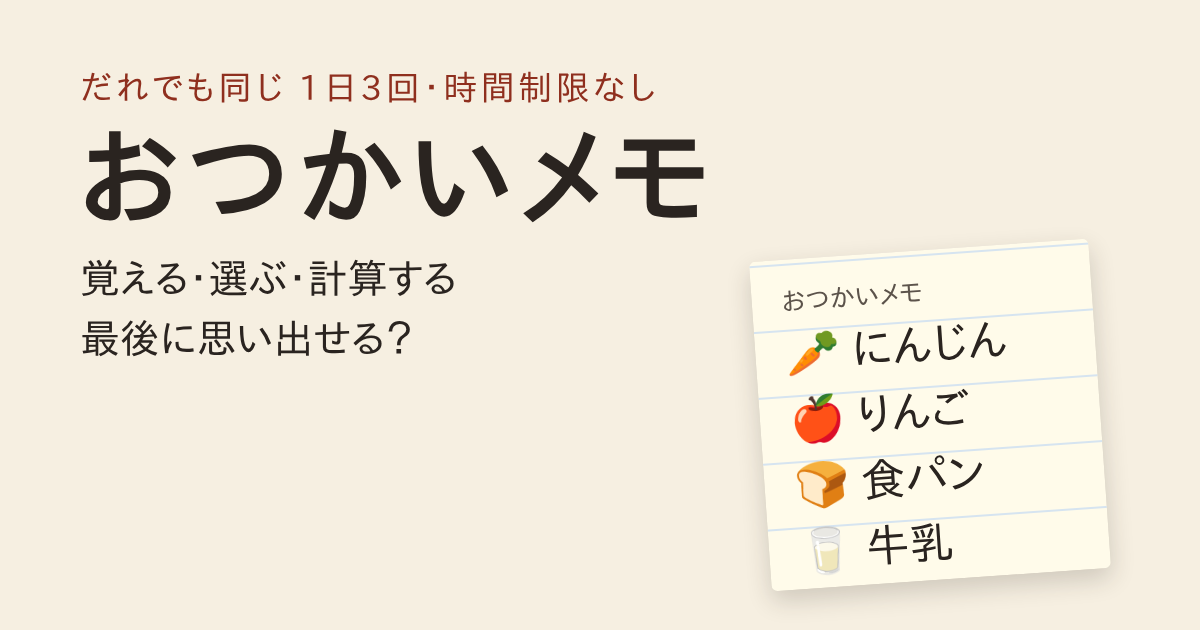
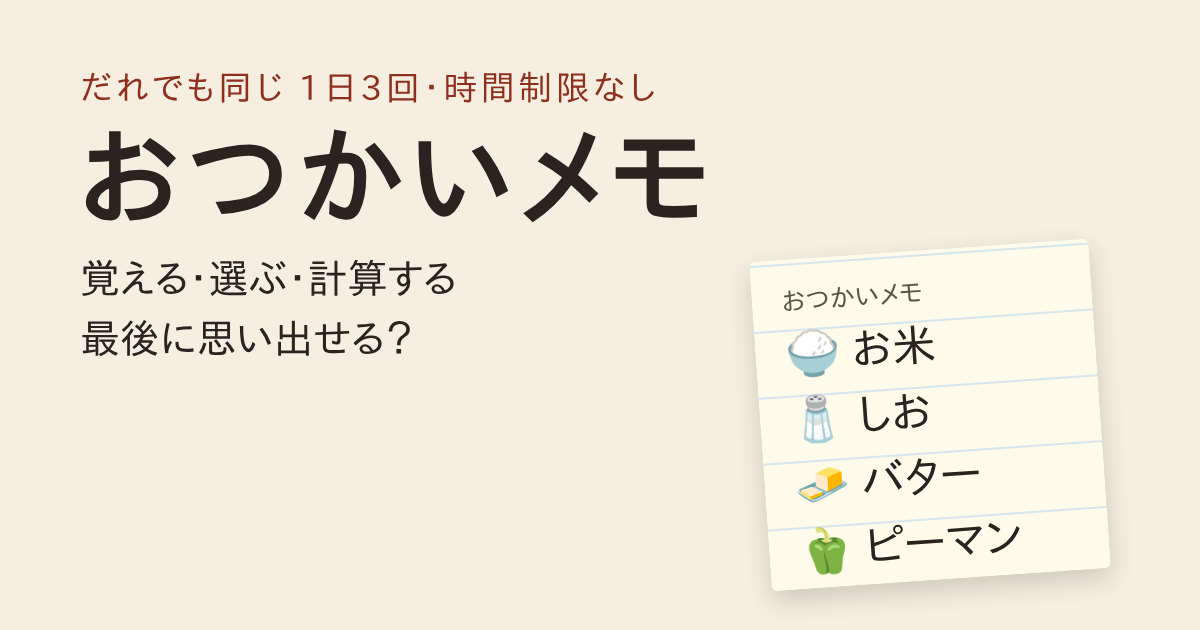
レビュー対応：別タブの上書きを防ぐ・読み上げ・SNS の絵・保存のたまり、共通部品を最新に
- 同じ回で別のタブが選んだ品を、古い画面から消さない（sig・live で比べ、違えば作り直す）
- 思い出しを続きから開いたとき aria-pressed を付ける
- メモが3つ以上の売り場にまたがらないときは、乱数を引かずに入れかえる（毎日の問題は変わらない）
- sw.js：保存の名前から ? 以降を外す（CACHE v3）
- og.png：ゲームの品を入れない見本に替える（QA が見る）
- 見やすさの共通部品 v3・引き継ぎコード v3 を写し直す（data-keys から a11y-v1 を外す）

Claude-Session: https://claude.ai/code/session_01SbNQtYnDRh4hCJ9SXNY1mS

Changed region(s): [[0.6475, 0.5127, 0.8633, 0.9349]]

diff --git a/index.html b/index.html
@@ -182,8 +182,8 @@ footer a{color:var(--ink2);min-height:44px;display:inline-flex;align-items:cente
 /* all:unset のボタンでも、キーボードで選んだときの枠が消えないよう、いちばん最後に強く書く */
 :is(.icon,button,a):focus-visible{outline:3px solid var(--blue)!important;outline-offset:2px}
 </style>
-<script src="transfer.js" data-game="otsukai-memo" data-keys="otsukai-v1,otsukai-fs,a11y-v1"></script>
-<!-- a11y:begin 見やすさの設定 v2（shared-workflows template/a11y/a11y.html の写し。ここでは直さず、ひな形を直して全部のゲームへ写す。drift-check と qa/a11y.mjs が同じ中身か見る） -->
+<script src="transfer.js" data-game="otsukai-memo" data-keys="otsukai-v1,otsukai-fs"></script>
+<!-- a11y:begin 見やすさの設定 v3（shared-workflows template/a11y/a11y.html の写し。ここでは直さず、ひな形を直して全部のゲームへ写す。drift-check と qa/a11y.mjs が同じ中身か見る） -->
 <style id="a11y-css">
 /* だれでも：キーボードで選んだ所に太い枠（WCAG 2.4.7・2.4.13） */
 :is(button,a,input,select,textarea,summary,[tabindex]):focus-visible{outline:3px solid #1a5fd0!important;outline-offset:2px!important;box-shadow:0 0 0 5px #fff!important}
@@ -210,6 +210,8 @@ html:not(.a11y-ruby) ruby.a11y-rb>rt{display:none}
 .a11y-dlg button,.a11y-btn,.a11y-saybtn{min-height:44px;min-width:44px;border-radius:10px;border:2px solid #1d2320;background:#fff;color:#1d2320;font:700 15px/1.2 "BIZ UDPGothic","Hiragino Sans","Yu Gothic UI",Meiryo,sans-serif;padding:0 14px;cursor:pointer;letter-spacing:0}
 .a11y-dlg button.a11y-ok{background:#1d2320;color:#fff}
 .a11y-btn.a11y-float{position:fixed;left:max(8px,env(safe-area-inset-left,0px));bottom:max(8px,env(safe-area-inset-bottom,0px));z-index:2147483000}
+/* 読み上げボタンが、いちばん下のボタン・リンクにかぶらないよう下をあける */
+html.a11y-say body{padding-bottom:calc(64px + env(safe-area-inset-bottom,0px))!important}
 .a11y-saybtn{position:fixed;right:max(8px,env(safe-area-inset-right,0px));bottom:max(8px,env(safe-area-inset-bottom,0px));z-index:2147483000;box-shadow:0 2px 8px #0003}
 .a11y-saybtn[hidden],.a11y-dlg [hidden]{display:none!important}
 .a11y-note{font-size:13px!important}
@@ -448,7 +450,8 @@ const footer = () => `<footer><a href="#" id="f-how">遊び方</a><a href="#" id
 function bindFooter() { const h = $("f-how"); if (h) h.onclick = (e) => { e.preventDefault(); openHow(); }; const a = $("f-about"); if (a) a.onclick = (e) => { e.preventDefault(); about(); }; }
 function openHow() { $("fb2").href = FEEDBACK; const d = $("howto"); if (d.showModal) d.showModal(); else d.setAttribute("open", ""); }
 $("howto-ok").onclick = () => { const d = $("howto"); d.close ? d.close() : d.removeAttribute("open"); save((s) => { s.tut = true; }); };
-const itemBtn = (id, cls = "") => { const it = BY[id]; return `<button class="item g${it.g} ${cls}" data-id="${id}" aria-label="${it.n}">${`<span class="e" aria-hidden="true">${it.e}</span><span class="n">${it.n}</span>`}</button>`; };
+// pressed を渡すと、選んだ・選んでいないを読み上げに伝える（思い出しの棚。続きから開いたときも）
+const itemBtn = (id, cls = "", pressed) => { const it = BY[id]; return `<button class="item g${it.g} ${cls}" data-id="${id}" aria-label="${it.n}"${pressed === undefined ? "" : ` aria-pressed="${pressed}"`}>${`<span class="e" aria-hidden="true">${it.e}</span><span class="n">${it.n}</span>`}</button>`; };
 const toTop = () => window.scrollTo(0, 0);
 
 function home() {
@@ -520,8 +523,16 @@ function startRun(mode, opt) {
 // cur：{ i, stage: "memo"|"shelf"|"pay"|"recall", got:[かごに入れた品], ng:[まちがえて押した品], miss, hints, calc, sel:[思い出しで選んだ品] }
 let cur = null, typed = "";
 const same = (r) => r && cur && r.id === cur.id && r.res.length === cur.i; // 保存した進み具合が、この画面と同じ回か
-// 途中の様子を保存する（ヒント・まちがいの数は、別のタブで数えた分より減らさない）
-function keep() { save((s) => { const r = s.runs[MODE]; if (!same(r)) return; const w = r.cur && r.cur.i === cur.i ? r.cur : null; if (w) for (const q of ["miss", "hints", "calc"]) cur[q] = Math.max(cur[q] || 0, w[q] || 0); r.cur = { i: cur.i, stage: cur.stage, got: cur.got.slice(), ng: cur.ng.slice(), miss: cur.miss, hints: cur.hints, calc: cur.calc, sel: cur.sel.slice(), hl: cur.hl || null }; }); }
+// 途中の様子の控え。この画面が最後に読んだ・書いた中身と、保存の中身が同じか比べる（同じ回で別のタブが品を選んだのを、古い画面で消さない）
+const sig = (c) => (c ? JSON.stringify([c.i, c.stage, c.got, c.ng, c.sel, c.miss, c.hints, c.calc]) : "");
+const live = () => { const r = load().runs[MODE]; return same(r) && sig(r.cur) === cur.seen; };
+// 途中の様子を保存する。別のタブが先に書いていたら書かずに、保存の中身で画面を作り直す（false を返す）
+function keep() {
+  let ok = false;
+  save((s) => { const r = s.runs[MODE]; if (!same(r) || sig(r.cur) !== cur.seen) return; r.cur = { i: cur.i, stage: cur.stage, got: cur.got.slice(), ng: cur.ng.slice(), miss: cur.miss, hints: cur.hints, calc: cur.calc, sel: cur.sel.slice(), hl: cur.hl || null }; cur.seen = sig(r.cur); ok = true; });
+  if (!ok) { toast("別の画面で先に進んでいます"); play(); }
+  return ok;
+}
 function play() {
   const s = load(), run = s.runs[MODE];
   if (!run) return home();
@@ -529,7 +540,7 @@ function play() {
   if (run.mode === "a" && s.days[run.date]) { save((s2) => { delete s2.runs[MODE]; }); toast("この日は別の画面で遊び終えています"); return home(); }
   const i = run.res.length, trip = run.list[i];
   const sv = run.cur && run.cur.i === i ? run.cur : null;
-  cur = { id: run.id, i, stage: sv ? sv.stage : trip.k === "recall" ? "recall" : "memo", got: sv ? sv.got.filter((x) => trip.items.includes(x)) : [], ng: sv ? (sv.ng || []).filter((x) => trip.shelf.includes(x)) : [], miss: sv ? sv.miss || 0 : 0, hints: sv ? sv.hints || 0 : 0, calc: sv ? sv.calc || 0 : 0, sel: sv ? (sv.sel || []).filter((x) => trip.shelf.includes(x)) : [], hl: sv ? sv.hl || null : null };
+  cur = { id: run.id, i, stage: sv ? sv.stage : trip.k === "recall" ? "recall" : "memo", got: sv ? sv.got.filter((x) => trip.items.includes(x)) : [], ng: sv ? (sv.ng || []).filter((x) => trip.shelf.includes(x)) : [], miss: sv ? sv.miss || 0 : 0, hints: sv ? sv.hints || 0 : 0, calc: sv ? sv.calc || 0 : 0, sel: sv ? (sv.sel || []).filter((x) => trip.shelf.includes(x)) : [], hl: sv ? sv.hl || null : null, seen: sig(run.cur) };
   typed = "";
   if (cur.stage === "done") return endTrip(trip); // お会計を終えて次へ進む前に閉じた回
   if (cur.stage === "memo") memoView(run, trip);
@@ -556,7 +567,7 @@ function memoView(run, trip) {
     <button class="main ok" id="ready">覚えた！お店へ行く</button>
     <p class="note">時間制限はありません。お店に入るとメモは見られません。</p>`;
   $("back").onclick = home;
-  $("ready").onclick = () => { if (!same(load().runs[MODE])) return play(); cur.stage = "shelf"; keep(); shelfView(load().runs[MODE], trip); };
+  $("ready").onclick = () => { if (!live()) return play(); cur.stage = "shelf"; if (keep()) shelfView(load().runs[MODE], trip); };
   toTop();
 }
 function shelfView(run, trip) {
@@ -580,22 +591,23 @@ function hintHtml(trip) {
   return `<div class="hint">のこりは <b>${gs.join("・")}</b> の売り場にあります${cur.hints >= 2 ? "。光っている品も、メモにありました" : ""}</div>`;
 }
 function shelfHint(trip) {
-  if (cur.hints >= 2 || !same(load().runs[MODE])) return;
+  if (cur.hints >= 2) return;
+  if (!live()) { toast("別の画面で先に進んでいます"); return play(); }
   cur.hints++;
   if (cur.hints === 2) { const rest = trip.items.filter((x) => !cur.got.includes(x)); cur.hl = rest[0] || null; }
-  keep(); shelfView(load().runs[MODE], trip); buzz();
+  if (keep()) { shelfView(load().runs[MODE], trip); buzz(); }
 }
 function pickItem(b, trip) {
   const id = b.dataset.id;
   if (cur.got.includes(id) || cur.ng.includes(id)) return;
-  if (!same(load().runs[MODE])) { toast("別の画面で先に進んでいます"); return play(); }
+  if (!live()) { toast("別の画面で先に進んでいます"); return play(); }
   const m = $("msg");
   if (trip.items.includes(id)) {
     cur.got.push(id); if (cur.hl === id) cur.hl = null; b.className = `item g${BY[id].g} got`; buzz();
     m.className = "msg ok"; m.textContent = `${BY[id].n}、ありました！`;
     $("basket").innerHTML = `<span class="lbl">かご</span>${cur.got.map((x) => `<span aria-label="${BY[x].n}">${BY[x].e}</span>`).join("")}<span class="lbl" style="margin-left:auto">のこり ${trip.items.length - cur.got.length}品</span>`;
     if (cur.got.length >= trip.items.length) {
-      cur.stage = trip.pay === "none" ? "done" : "pay"; keep();
+      cur.stage = trip.pay === "none" ? "done" : "pay"; if (!keep()) return;
       document.querySelectorAll("#shelf .item").forEach((x) => (x.disabled = true)); $("hint").disabled = true;
       if (cur.stage === "pay") { setTimeout(() => { if (cur && cur.stage === "pay" && $("shelf")) payView(load().runs[MODE], trip); }, 700); }
       else endTrip(trip);
@@ -628,15 +640,15 @@ function padKey(d, trip) {
 }
 function payCheck(trip) {
   if (!typed) return;
-  if (!same(load().runs[MODE])) { toast("別の画面で先に進んでいます"); return play(); }
+  if (!live()) { toast("別の画面で先に進んでいます"); return play(); }
   const want = trip.pay === "change" ? trip.paid - trip.total : trip.total, got = +typed, m = $("msg");
-  if (got === want) { buzz([10, 40, 10]); cur.stage = "done"; keep(); return endTrip(trip); }
+  if (got === want) { buzz([10, 40, 10]); cur.stage = "done"; return keep() && endTrip(trip); }
   cur.calc++; buzz(40); typed = ""; $("disp").innerHTML = `0<span class="u">円</span>`;
   if (cur.calc >= 2) {
     // 2回まちがえたら、計算のしかたを見せて先へ（いつまでも止めない）
     const how = trip.items.map((id) => BY[id].p).join("＋") + `＝${yen(trip.total)}` + (trip.pay === "change" ? `、${yen(trip.paid)}−${yen(trip.total)}＝${yen(want)}` : "");
     m.className = "msg ng"; m.innerHTML = `答えは <b>${yen(want)}</b> でした。<br><small>${esc(how)}</small>`;
-    cur.stage = "done"; keep();
+    cur.stage = "done"; if (!keep()) return;
     $("pad").innerHTML = ""; $("pad").insertAdjacentHTML("afterend", `<button class="main" id="go-next">次へ</button>`);
     $("go-next").onclick = () => endTrip(trip);
   } else { m.className = "msg ng"; m.textContent = got > want ? "少し多いようです。もう一度計算してみましょう" : "少し足りないようです。もう一度計算してみましょう"; keep(); }
@@ -645,7 +657,7 @@ function payCheck(trip) {
 function endTrip(trip) {
   let r = null;
   const s = save((s) => {
-    r = s.runs[MODE]; if (!same(r)) { r = null; return; }
+    r = s.runs[MODE]; if (!same(r) || sig(r.cur) !== cur.seen) { r = null; return; }
     r.res.push({ k: "buy", m: cur.miss, h: cur.hints, c: cur.calc }); r.cur = null;
     for (const id of trip.items) s.dex[id] = (s.dex[id] || 0) + 1;
     s.trips = (s.trips || 0) + 1; if (trip.pay !== "none" && cur.calc === 0) s.calc = (s.calc || 0) + 1;
@@ -678,10 +690,11 @@ function recallView(run, trip) {
   app.innerHTML = `${headOf(run, "最後の思い出し")}
     <p class="big" style="font-size:1.15rem">1回目のおつかいで買った品は？</p>
     <p class="note">${trip.items.length}品あります。全部選んで「これで決める」を押してください。押し直すと外せます。</p>
-    <div class="shelf c${cols}" id="shelf">${trip.shelf.map((id) => itemBtn(id, cur.sel.includes(id) ? "sel" : "")).join("")}</div>
+    <div class="shelf c${cols}" id="shelf">${trip.shelf.map((id) => itemBtn(id, cur.sel.includes(id) ? "sel" : "", cur.sel.includes(id))).join("")}</div>
     <button class="main ok" id="decide"${cur.sel.length ? "" : " disabled"}>これで決める（${cur.sel.length}/${trip.items.length}）</button>`;
   $("back").onclick = home;
   document.querySelectorAll("#shelf .item").forEach((b) => (b.onclick = () => {
+    if (!live()) { toast("別の画面で先に進んでいます"); return play(); }
     const id = b.dataset.id, j = cur.sel.indexOf(id);
     if (j >= 0) cur.sel.splice(j, 1); else if (cur.sel.length < trip.items.length) cur.sel.push(id); else return toast(`選べるのは${trip.items.length}品までです`);
     b.classList.toggle("sel", cur.sel.includes(id)); b.setAttribute("aria-pressed", cur.sel.includes(id)); buzz(6);
@@ -691,9 +704,11 @@ function recallView(run, trip) {
   toTop();
 }
 function recallDone(trip) {
-  if (!same(load().runs[MODE])) { toast("別の画面で先に進んでいます"); return play(); }
+  if (!live()) { toast("別の画面で先に進んでいます"); return play(); }
   const ok = cur.sel.filter((x) => trip.items.includes(x)).length, ng = cur.sel.length - ok;
-  save((s) => { const r = s.runs[MODE]; if (!same(r)) return; r.res.push({ k: "recall", ok, of: trip.items.length, ng }); r.cur = null; });
+  let saved = false;
+  save((s) => { const r = s.runs[MODE]; if (!same(r) || sig(r.cur) !== cur.seen) return; saved = true; r.res.push({ k: "recall", ok, of: trip.items.length, ng }); r.cur = null; });
+  if (!saved) { toast("別の画面で先に進んでいます"); return play(); }
   document.querySelectorAll("#shelf .item").forEach((b) => { const id = b.dataset.id, on = cur.sel.includes(id), want = trip.items.includes(id); b.disabled = true; b.classList.remove("sel"); if (on && want) b.classList.add("got"); else if (on) b.classList.add("ng"); else if (want) b.classList.add("miss"); });
   $("decide").outerHTML = `<div class="verdict" role="status"><p class="big">${ok === trip.items.length && !ng ? "全部思い出せました！" : `${trip.items.length}品のうち ${ok}品 思い出せました`}</p>
     <p class="note">${ok < trip.items.length ? "点線の品が、思い出せなかった品です。" : "あとから思い出すのは、覚えた直後より難しいものです。"}</p>

diff --git a/transfer.js b/transfer.js
@@ -1,21 +1,23 @@
 // 引き継ぎコード（transfer.js）：このゲームの記録を「コード」と「QR」にして、別の端末へ移す。サーバーは使わない。
-// 引き継ぎの版: 1
+// 引き継ぎの版: 3
 // 正：satou-aaaaa/shared-workflows の template/transfer.js（各ゲームはこれをそのまま写す。直すときはひな形を直して配り、版を上げる）
 // 使い方（index.html の <head> の中、ゲームの script より前に、defer を付けずに置く）:
 //   <script src="transfer.js" data-game="kippu-10" data-keys="kippu-v1"></script>
 //   data-keys はカンマ区切り。最後が * のものは「その文字で始まるキー全部」（例 xdoko-*）。
+//   書くのはこのゲームの記録のキーだけ（a11y-v1 のような全部のゲームで分け合う設定は入れない。取り込むと別のゲームの設定まで変わる）。
 //   押すと開く所に data-hk を付ける（<a href="#" data-hk>引き継ぎ</a> など）。JS からは HK.open()。
 // しくみ:
 //   - 書き出し：記録（localStorage のうち data-keys に合うもの）を JSON → deflate-raw で縮める → base64url。
 //     形は HK1.<中身>.<CRC32>（縮められないブラウザは HK0）。QR は「このページの URL#hk=コード」。
 //     URL の # より後ろはサーバーへ送られない（MDN「URL: hash」）ので、記録は外へ出ない。
-//   - 取り込み：形・CRC・ゲームの名前・キーの名前・大きさを確かめてから、確認の画面を出す。
+//   - 取り込み：形・CRC・ゲームの名前・キーの名前・大きさ・HTML に使う文字（< > " ' `）が無いかを確かめてから、確認の画面を出す。
+//     ゲームは記録を innerHTML に入れることが多いので、作ったコードで画面にスクリプトを入れられないようにする（版2、CodeRabbit の指摘）。
 //     入れ替える前の記録は控え（hk-backup:<ゲーム>）に残し、「取り込む前に戻す」で戻せる（戻すのも入れ替えなので、もう一度押せばまた戻る）。
 //     ゲームが記録を読む前に入れ替えたいので、sessionStorage に預けてページを読み直し、この script の最初で書き込む。
 //   - 外へ通信しない（fetch・XMLHttpRequest・外のスクリプトを使わない）。QR は下の qrcode-generator（MIT）をこのファイルの中で作る。
 (function () {
   "use strict";
-  var VERSION = 1;
+  var VERSION = 3;
   var me = document.currentScript;
   var cfg = window.HK_CONFIG || {};
   var GAME = cfg.game || (me && me.dataset.game) || "";
@@ -25,8 +27,10 @@
   var DONE = "hk-done:" + GAME;
   var MAX_JSON = 4 * 1024 * 1024; // localStorage はおおよそ 5MB まで
   var QR_MAX = 2300; // QR（誤り訂正 L・40型）に入る URL の長さのめやす
-  if (!GAME || !KEYS.length || KEYS.some(function (k) { return k === "*" || /^hk-/.test(k); })) {
-    console.error("transfer.js: data-game と data-keys を書く（* だけ・hk- で始まるキーは使えない）");
+  // 全部のゲームで分け合うキー（見やすさの設定）。入れると、取り込んだときにほかのゲームの設定まで変わる
+  var SHARED = ["a11y-v1"];
+  if (!GAME || !KEYS.length || KEYS.some(function (k) { return k === "*" || /^hk-/.test(k) || SHARED.indexOf(k) >= 0 || (k.slice(-1) === "*" && "a11y-v1".indexOf(k.slice(0, -1)) === 0); })) {
+    console.error("transfer.js: data-game と data-keys を書く（* だけ・hk- で始まるキー・分け合う a11y-v1 は使えない）");
     return;
   }
 
@@ -113,10 +117,46 @@
     old: "このブラウザでは読めないコードです。ブラウザを新しくするか、書き出した端末でもう一度作ってください。",
     game: "別のゲームのコードです。",
     keys: "このゲームの記録ではない中身が入っています。",
+    bad: "記録に使わない文字が入っています。書き出した端末でもう一度作ってください。",
     big: "記録が大きすぎます。",
     newer: "新しい版の引き継ぎコードです。ページを読み直して（アプリを開き直して）から試してください。",
   };
+  // 記録の中の文字に、HTML の印になる文字が無いか（JSON ならキーと文字の値を全部見る）
+  var HTMLCH = /[<>"'`]/;
+  function unsafe(v) {
+    var o;
+    try { o = JSON.parse(v); } catch (e) { return HTMLCH.test(v); }
+    var stack = [o];
+    while (stack.length) {
+      var x = stack.pop();
+      if (typeof x === "string") { if (HTMLCH.test(x)) return true; }
+      else if (x && typeof x === "object") {
+        for (var k in x) { if (HTMLCH.test(k)) return true; stack.push(x[k]); }
+      }
+    }
+    return false;
+  }
   function fail(kind) { var e = new Error(ERR[kind]); e.kind = kind; return e; }
+  // 縮めたコードを、読みながら大きさを数えて広げる。MAX_JSON を超えたらそこでやめる
+  // （小さなコードが何百MBにも膨らむと、開いただけでタブが固まるため。版3、CodeRabbit の指摘）
+  function inflate(bytes) {
+    var reader = new Blob([bytes]).stream().pipeThrough(new DecompressionStream("deflate-raw")).getReader();
+    var parts = [], total = 0;
+    function next() {
+      return reader.read().then(function (r) {
+        if (r.done) {
+          var out = new Uint8Array(total), at = 0;
+          parts.forEach(function (p) { out.set(p, at); at += p.length; });
+          return out;
+        }
+        total += r.value.length;
+        if (total > MAX_JSON) { try { reader.cancel(); } catch (e) { /* なし */ } throw fail("big"); }
+        parts.push(r.value);
+        return next();
+      });
+    }
+    return next();
+  }
   function decode(text) {
     return Promise.resolve().then(function () {
       var s = clean(text);
@@ -127,7 +167,7 @@
       try { bytes = unb64(m[2]); } catch (e) { throw fail("form"); }
       if (crc32(bytes) !== m[3]) throw fail("crc");
       if (m[1] === "1" && typeof DecompressionStream !== "function") throw fail("old");
-      return (m[1] === "1" ? pipe(bytes, new DecompressionStream("deflate-raw")) : Promise.resolve(bytes)).catch(function () { throw fail("form"); });
+      return (m[1] === "1" ? inflate(bytes) : Promise.resolve(bytes)).catch(function (e) { throw e && e.kind ? e : fail("form"); });
     }).then(function (raw) {
       if (raw.length > MAX_JSON) throw fail("big");
       var o;
@@ -140,6 +180,7 @@
       keys.forEach(function (k) {
         if (!ours(k) || typeof o.d[k] !== "string") throw fail("keys");
       });
+      keys.forEach(function (k) { if (unsafe(o.d[k])) throw fail("bad"); });
       var at = new Date(o.at);
       return { d: o.d, at: isNaN(at) ? null : at };
     });
@@ -154,10 +195,14 @@
     try {
       var job = JSON.parse(p);
       var cur = snapshot();
-      replaceAll(job.d);
-      // いまの記録を控えに残す（空なら控えは作らない。前の控えも消さない）
-      if (count(cur)) { try { localStorage.setItem(BACKUP, JSON.stringify({ at: new Date().toISOString(), d: cur })); } catch (e) { /* 控えが入らないときも入れ替えは済んでいる */ } }
-      else if (job.undo) { try { localStorage.removeItem(BACKUP); } catch (e) { /* なし */ } }
+      // 先にいまの記録を控えに残す（空なら控えは作らない。前の控えも消さない）。控えを書けなければ入れ替えない
+      var prev = localStorage.getItem(BACKUP);
+      if (count(cur)) localStorage.setItem(BACKUP, JSON.stringify({ at: new Date().toISOString(), d: cur }));
+      try { replaceAll(job.d); } catch (e) {
+        try { if (prev == null) localStorage.removeItem(BACKUP); else localStorage.setItem(BACKUP, prev); } catch (e2) { /* なし */ }
+        throw e;
+      }
+      if (!count(cur) && job.undo) { try { localStorage.removeItem(BACKUP); } catch (e) { /* なし */ } }
       msg = job.undo ? "取り込む前の記録に戻しました" : "記録を引き継ぎました";
     } catch (e) {
       msg = "引き継げませんでした（端末の空きが足りないかもしれません）。記録は元のままです";

diff --git a/sw.js b/sw.js
@@ -1,7 +1,7 @@
 // おつかいメモを端末に保存して、電波が無くても遊べるようにする（PWA）。
 // 画面は先にネットを見て、つながらないときだけ保存したものを使う（直した版がすぐ届く）。
 // 記録（localStorage）には触らない。外へ何も送らない（よそのサイト＝文字の取り寄せは扱わない）。
-const CACHE = "otsukai-v2";
+const CACHE = "otsukai-v3";
 const SHELL = ["./", "./index.html", "./game.js", "./transfer.js", "./manifest.webmanifest", "./icon-192.png", "./icon-512.png"];
 self.addEventListener("install", (e) => {
   e.waitUntil(caches.open(CACHE).then((c) => c.addAll(SHELL)).then(() => self.skipWaiting()));
@@ -22,9 +22,10 @@ self.addEventListener("fetch", (e) => {
     .then((hit) => hit || (req.mode === "navigate" ? caches.match("./index.html") : undefined))
     .catch(() => undefined); // 保存したものを読めなくても、必ず返事を返す（ネットの返事か Response.error()）
   // ネットの返事と保存し直しは、イベントの中で waitUntil に預ける（4秒で保存したものを返したあとに届いても、新しい版を保存できる）
+  // 保存の名前から「?」より後を外す（?utm_source=… などで同じ画面が何枚もたまらないように）
   const net = fetch(req);
   const wait = (ms) => new Promise((r) => setTimeout(r, ms));
-  e.waitUntil(Promise.race([net.then((res) => { if (!res.ok) return; const copy = res.clone(); return Promise.race([caches.open(CACHE).then((c) => c.put(req, copy)), wait(15000)]); }, () => {}).catch(() => {}), wait(60000)])); // 保存の失敗は無視する。保存は始めてから15秒、全体は60秒で待つのをやめる（遅い通信でも保存でき、次の版の切り替えも止めない）
+  e.waitUntil(Promise.race([net.then((res) => { if (!res.ok) return; const copy = res.clone(); return Promise.race([caches.open(CACHE).then((c) => c.put(url.origin + url.pathname, copy)), wait(15000)]); }, () => {}).catch(() => {}), wait(60000)])); // 保存の失敗は無視する。保存は始めてから15秒、全体は60秒で待つのをやめる（遅い通信でも保存でき、次の版の切り替えも止めない）
   e.respondWith(new Promise((resolve) => {
     let sent = false; const send = (r) => { if (!sent) { sent = true; resolve(r); } };
     const slow = setTimeout(() => fromCache().then((hit) => hit && send(hit)), 4000);

diff --git a/game.js b/game.js
@@ -47,6 +47,14 @@
     // メモの品は売り場が3つ以上にまたがるように選ぶ（同じ売り場ばかりにしない）
     let list = pool.slice(0, n);
     for (let tries = 0; tries < 20 && new Set(list.map((id) => BY[id].g)).size < Math.min(3, n); tries++) list = shuffled(pool, R).slice(0, n);
+    // それでも足りないときは、乱数を引かずに入れかえる（重なっている売り場の品を、まだ無い売り場の品に）
+    for (const id of pool) {
+      const gs = list.map((x) => BY[x].g);
+      if (new Set(gs).size >= Math.min(3, n)) break;
+      if (list.includes(id) || gs.includes(BY[id].g)) continue;
+      const j = gs.findIndex((g, k) => gs.indexOf(g) !== k);
+      if (j >= 0) list[j] = id;
+    }
     const size = shelfSize(n), rest = pool.filter((id) => !list.includes(id));
     const same = rest.filter((id) => list.some((x) => BY[x].g === BY[id].g)), other = rest.filter((id) => !same.includes(id));
     // まぎらわしい品を半分ほど、のこりはほかの売り場から。ほかの売り場が足りなければ同じ売り場で埋める
